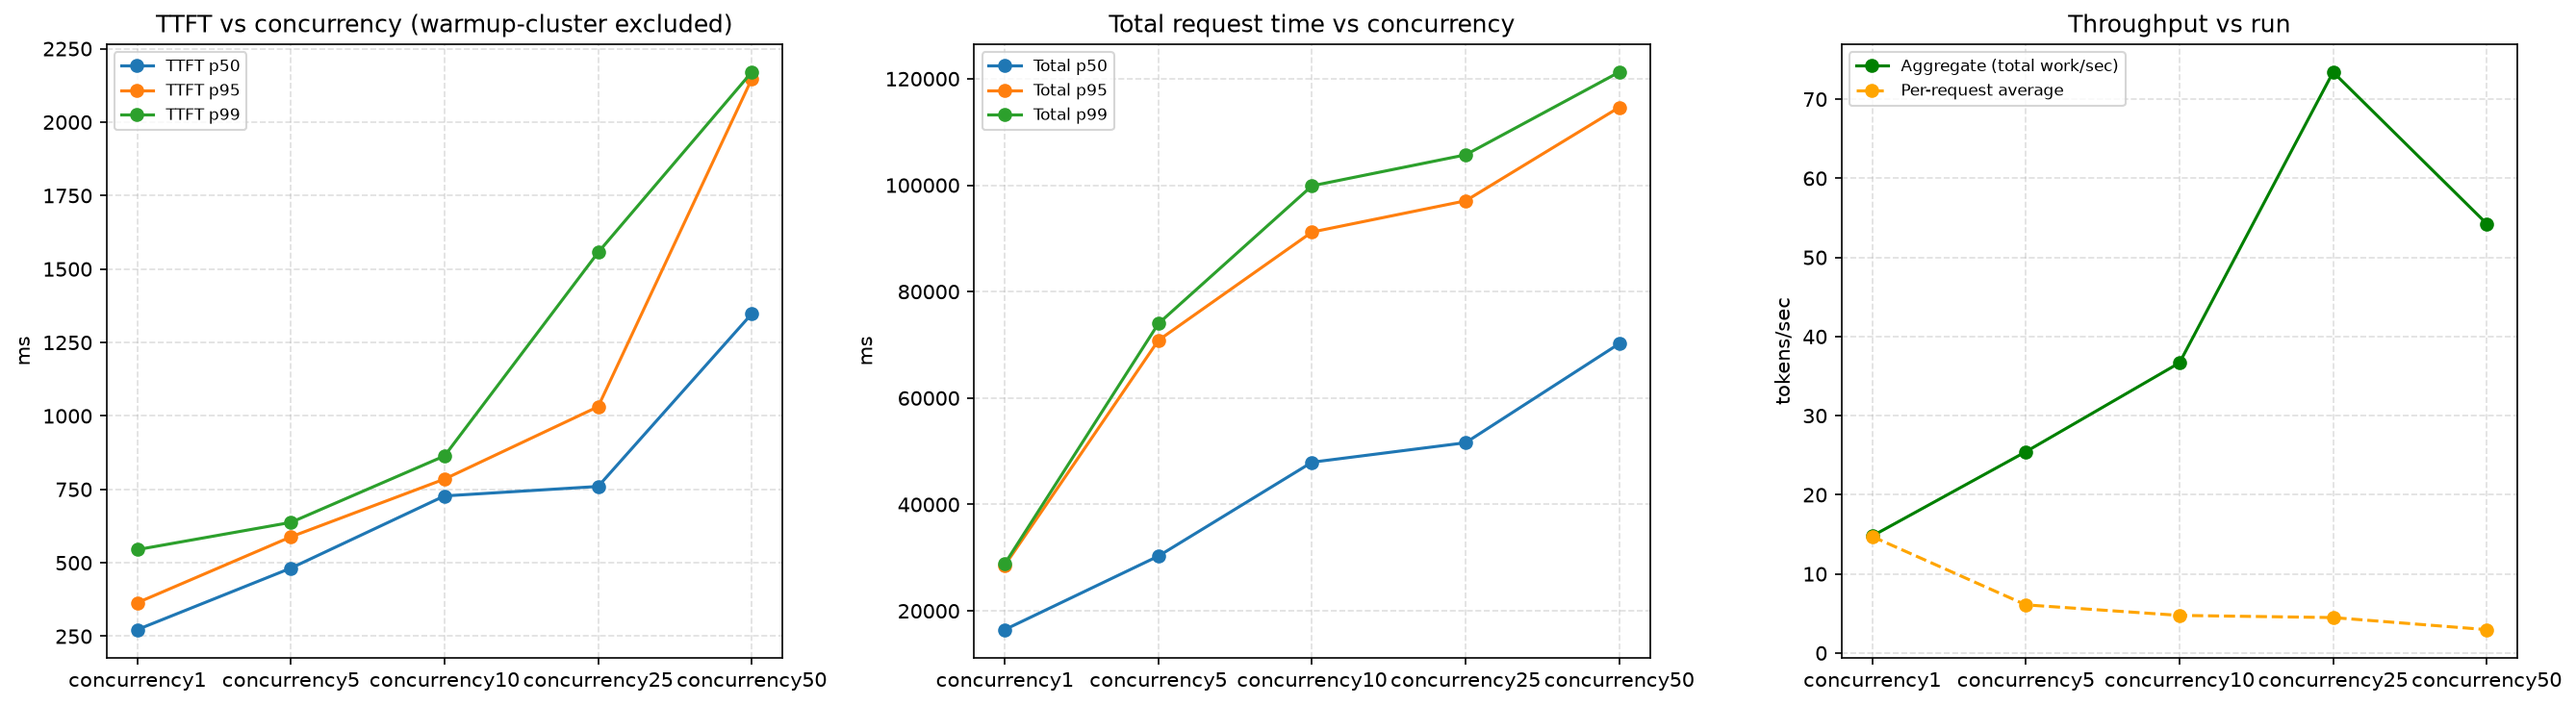
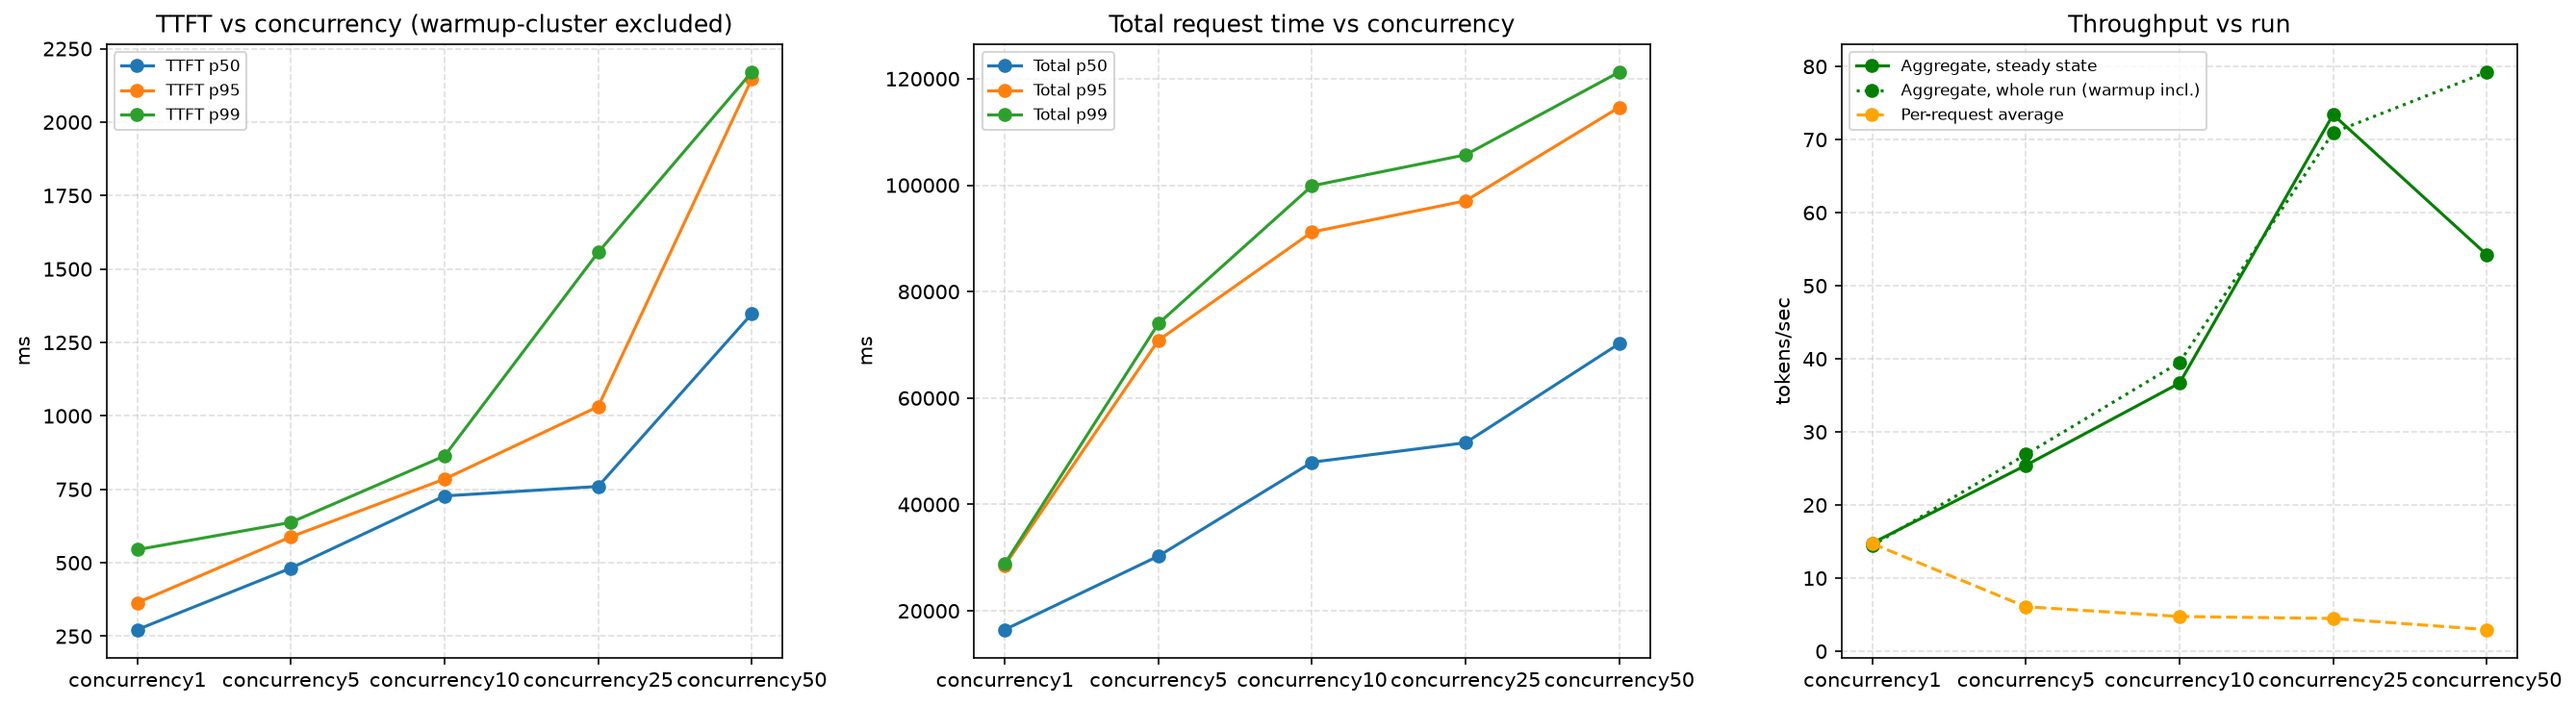
Plot whole-run aggregate throughput alongside steady state

diff --git a/scripts/analyze.py b/scripts/analyze.py
@@ -200,7 +200,9 @@ def build_chart(summary: pd.DataFrame, out_path: Path):
 
     ax = axes[2]
     ax.plot(summary["variant"], summary["aggregate_tokens_per_sec"], marker="o",
-            color="green", label="Aggregate (total work/sec)")
+            color="green", label="Aggregate, steady state")
+    ax.plot(summary["variant"], summary["aggregate_tokens_per_sec_whole_run"], marker="o",
+            color="green", linestyle=":", label="Aggregate, whole run (warmup incl.)")
     ax.plot(summary["variant"], summary["avg_tokens_per_sec_per_request"], marker="o",
             color="orange", linestyle="--", label="Per-request average")
     ax.set_title("Throughput vs run")
